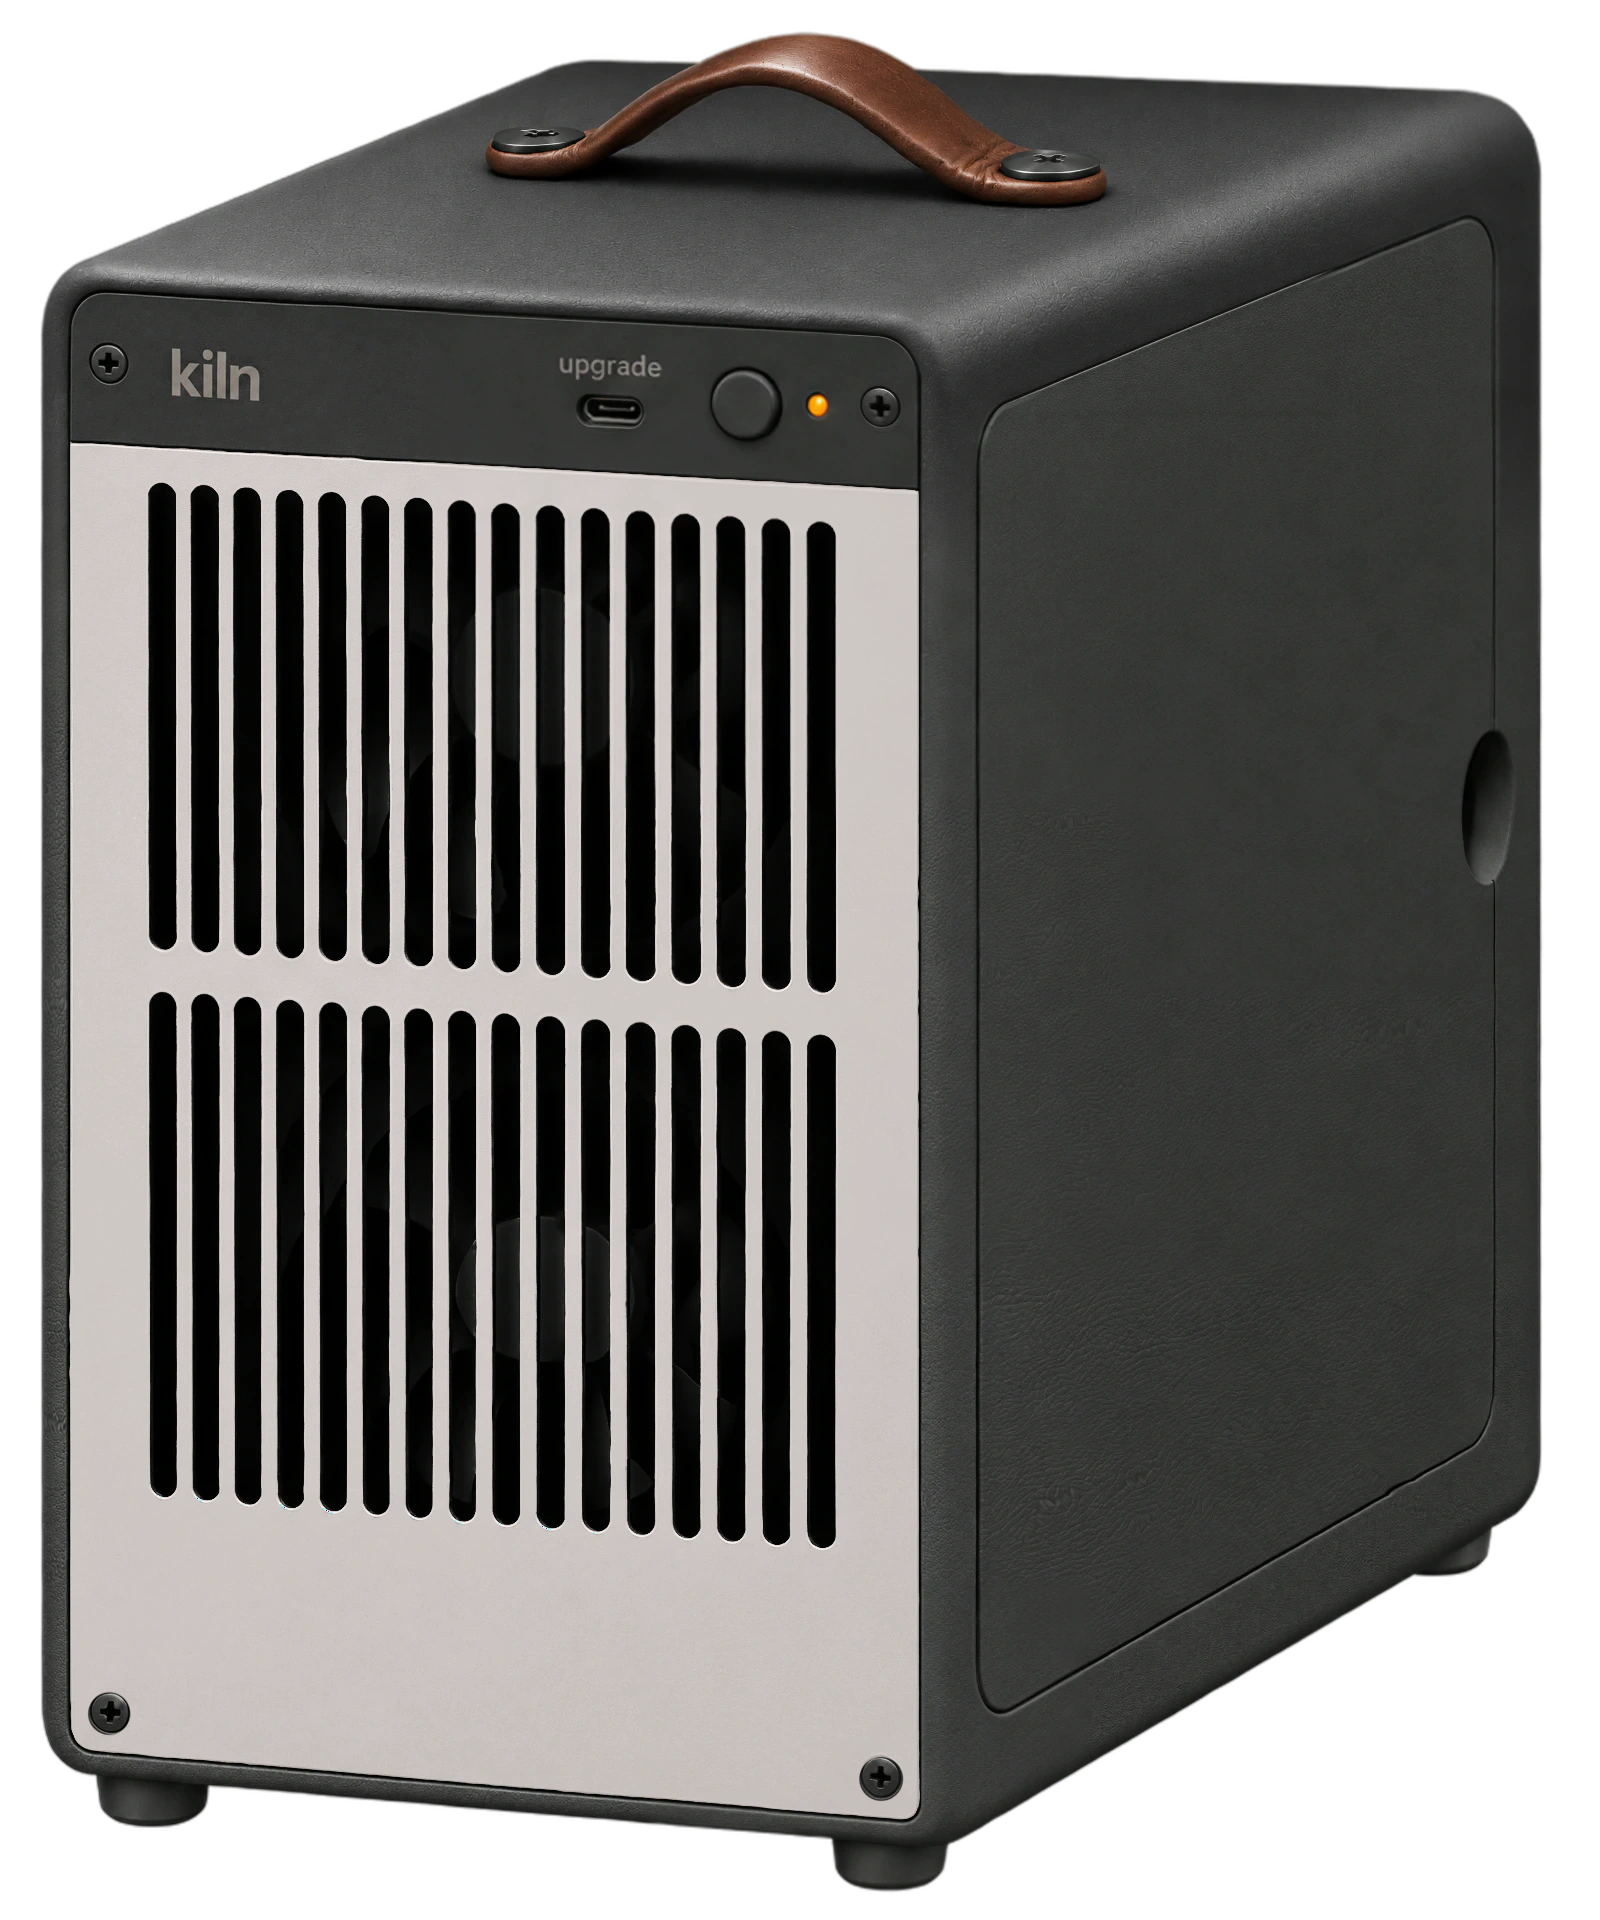
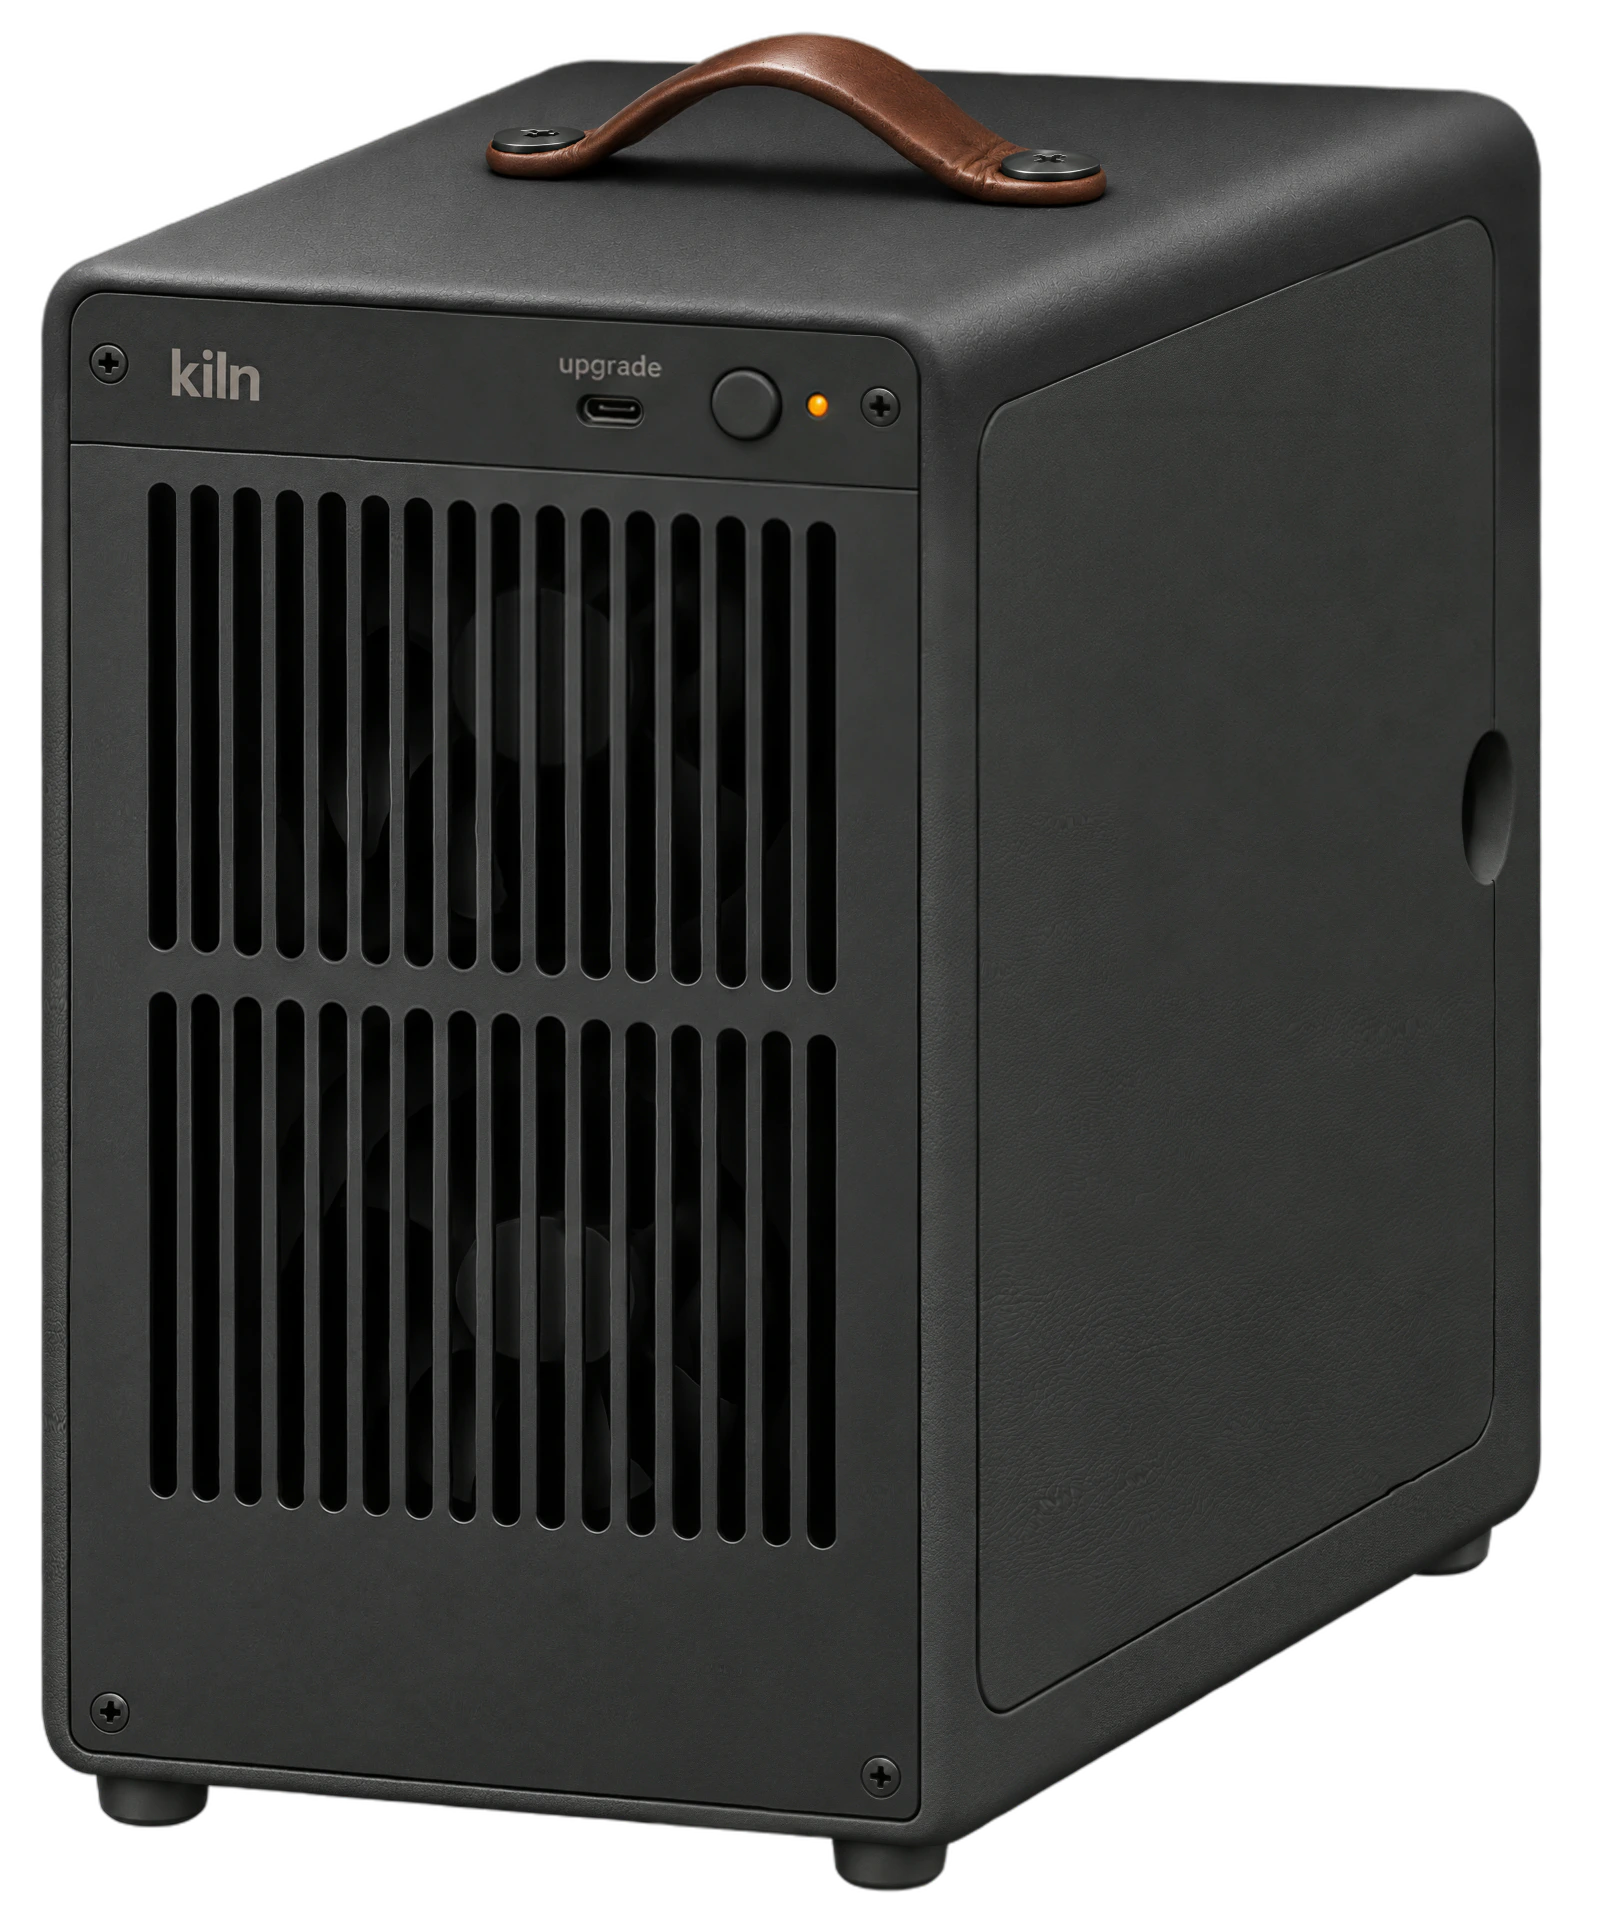
fix: restore the original dark charcoal front grille

Changed region(s): [[0.0312, 0.2188, 0.5938, 0.9688]]

diff --git a/docs/CONTENT-SOURCES.md b/docs/CONTENT-SOURCES.md
@@ -16,7 +16,7 @@ The founder selected the standalone crucible as the site logo. The two supplied 
 
 ## Kiln One rear panel and two-GPU interior, 26 November 2026
 
-The product page shows the deep charcoal interior and rear as transparent cutouts at a common display height. The outer casing takes the selected finish. The front grille and corresponding perforated rear panels stay light grey across all five finishes. The rear caption reads “Kiln Rear as a front panel, for fast switching, aesthetic stays.” [Deep charcoal interior](../static/assets/kiln/one-interior-charcoal-cutout.webp) · [Deep charcoal rear](../static/assets/kiln/finishes/rear-charcoal.webp)
+The product page shows the deep charcoal interior and rear as transparent cutouts at a common display height. The outer casing takes the selected finish. The original deep charcoal Kiln One always uses its dark front grille. Use the original front renders for the homepage, product gallery and magnifier. The other four front grilles and all five perforated rear panels stay light grey. [Original charcoal front](../static/assets/kiln/finishes/charcoal-device-6400.webp) The rear caption reads “Kiln Rear as a front panel, for fast switching, aesthetic stays.” [Deep charcoal interior](../static/assets/kiln/one-interior-charcoal-cutout.webp) · [Deep charcoal rear](../static/assets/kiln/finishes/rear-charcoal.webp)
 
 The Kiln One product page opens in deep charcoal. The finish controls in the front gallery and under the rear render share one selection. The gallery retains its 4× magnifier. The homepage gallery opens in baby pink. The mobile lens uses the tap-and-drag interaction from lander revision `b85167b`.
 
